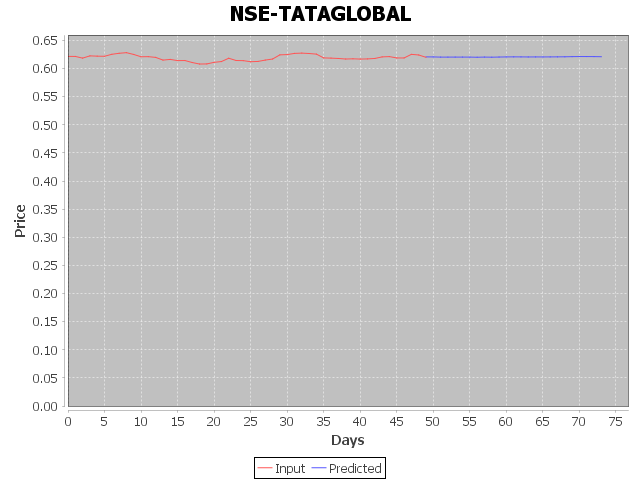
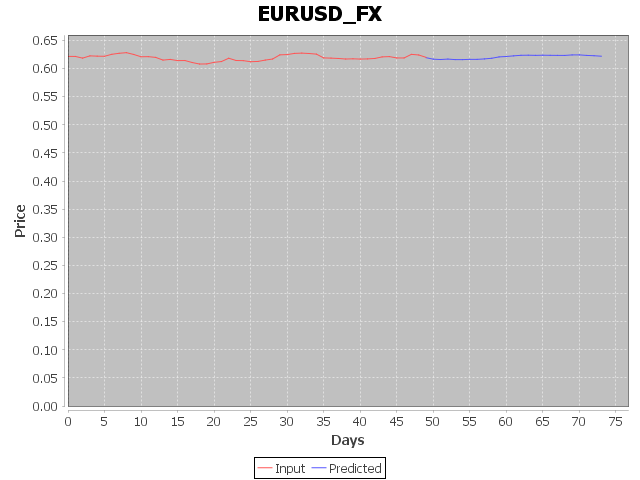
d

Changed region(s): [[0.3438, 0.0, 0.6562, 0.0625], [0.6562, 0.0938, 0.9375, 0.125]]

diff --git a/src/main/java/org/pp/Test.java b/src/main/java/org/pp/Test.java
@@ -29,7 +29,7 @@ public class Test {
 
     @SneakyThrows
     public static void main(String[] args) {
-        File csvFile = new File("NSE-TATAGLOBAL.csv");
+        File csvFile = new File("EURUSD_FX.csv");
 
         MultiLayerNetwork network = MultiLayerNetwork.load(new File("network.zip"), true);
         network.init();
